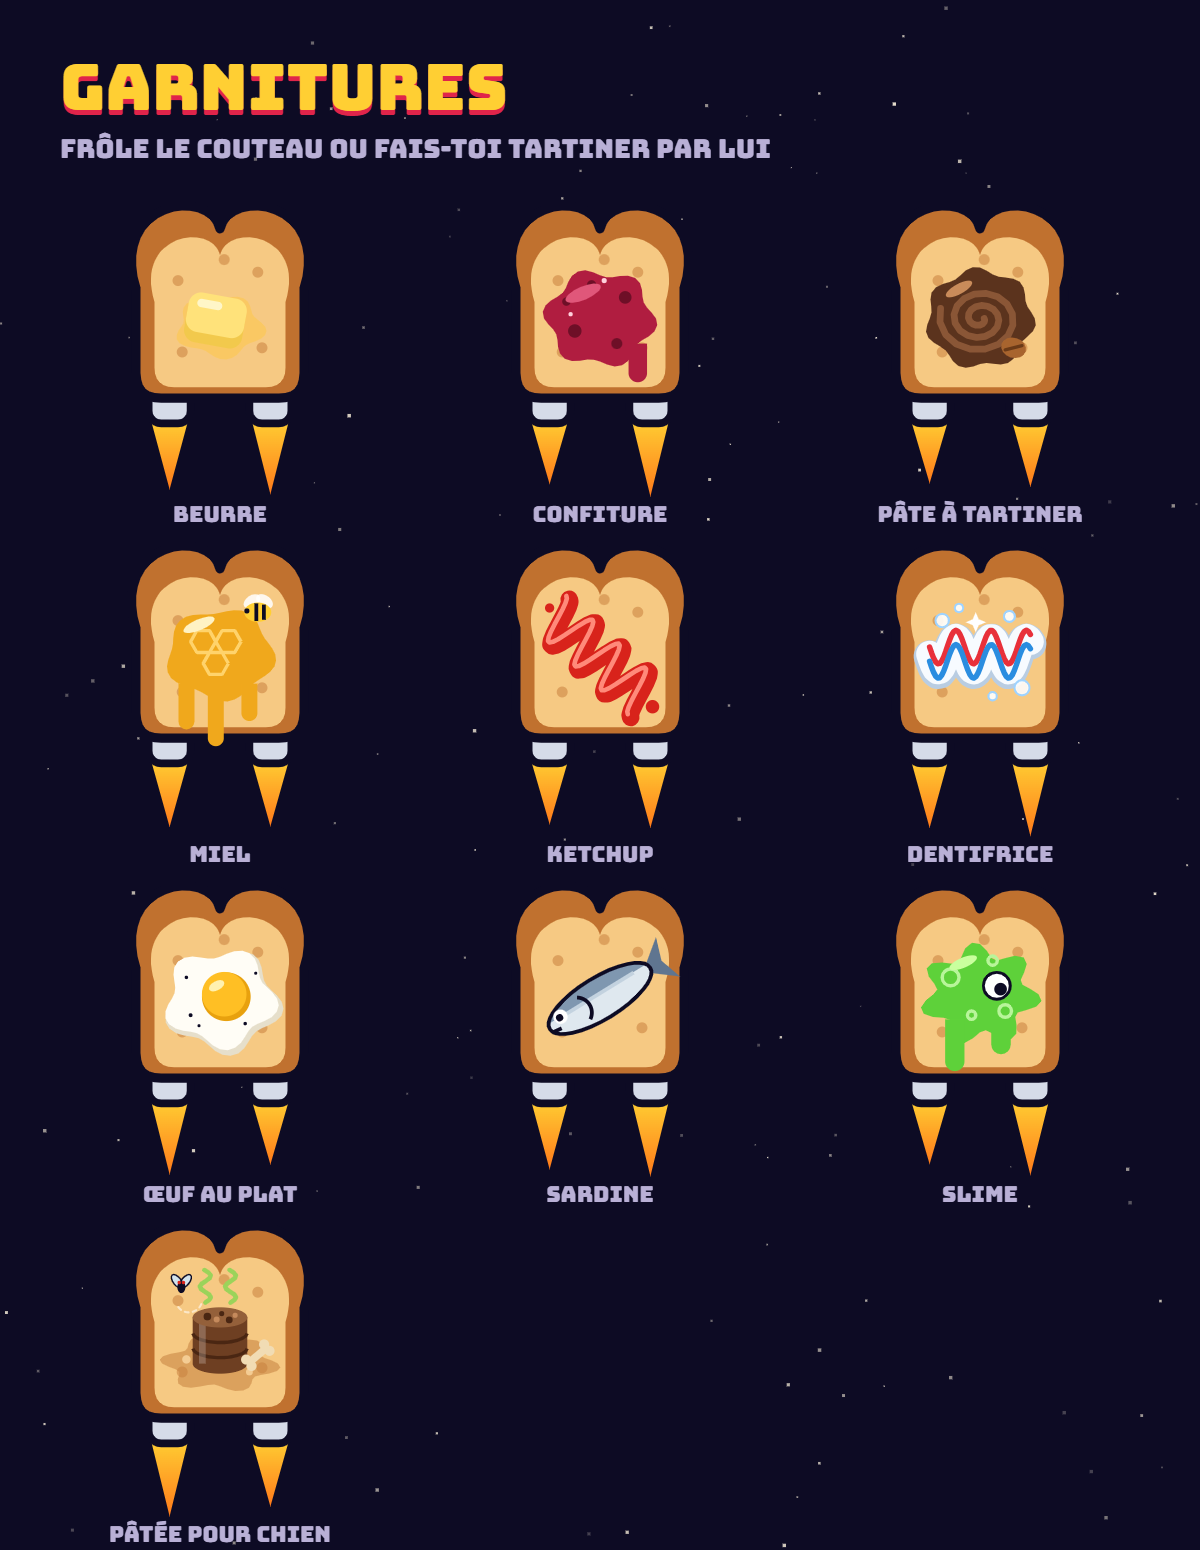
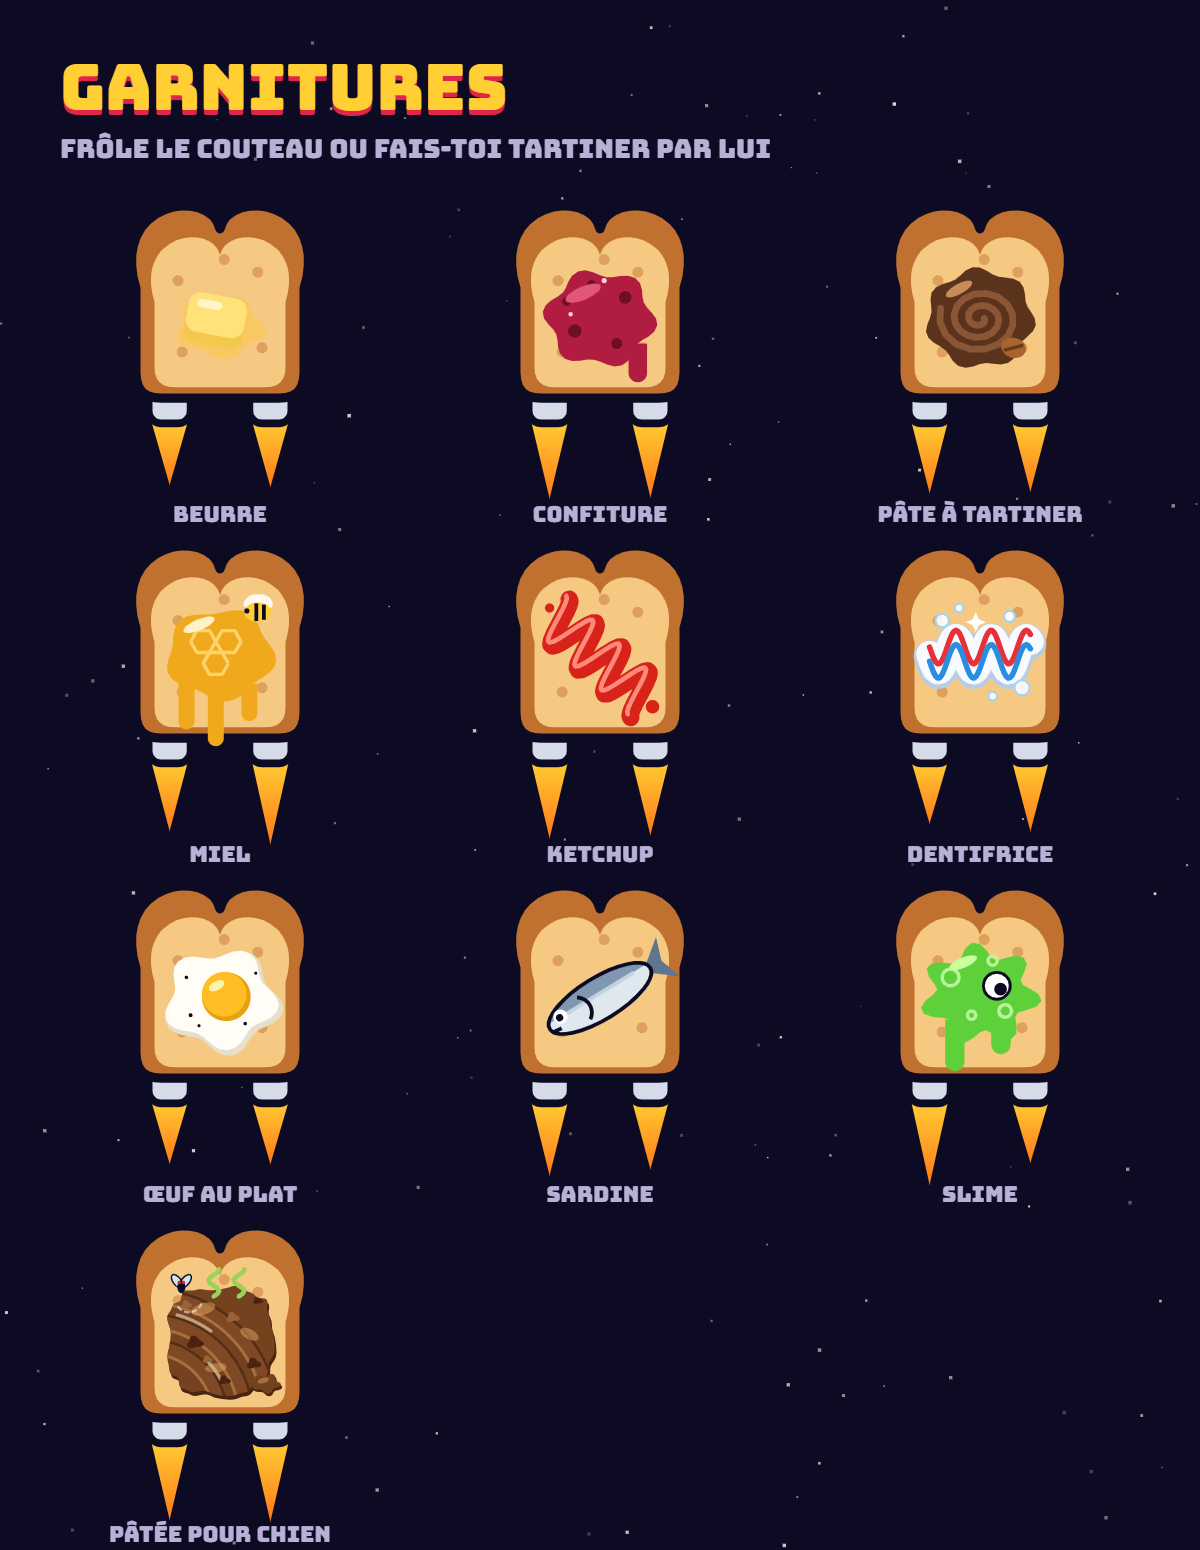
Pâtée pour chien tartinée sur la mie (coups de couteau, morceaux, gelée) au lieu d'une boîte posée, idée des accessoires notée

diff --git a/public/js/app/sprites.js b/public/js/app/sprites.js
@@ -623,44 +623,72 @@ const TOPPINGS = {
     dots(ctx, C.void, [[4.9, -0.2, 1.5]]);
   },
   dog(ctx, C) {
-    ctx.fillStyle = "rgba(196, 128, 62, 0.55)";
-    wavy(ctx, 0, 8, 12.5, 6, 0.16, 6);
-    ctx.fill();
-    dots(ctx, "rgba(255, 222, 170, 0.7)", [[-8, 7, 1], [7, 10, 0.8]]);
-    ctx.fillStyle = "#6e3f22";
-    ctx.beginPath();
-    ctx.moveTo(-6.5, -3);
-    ctx.lineTo(-6.5, 8);
-    ctx.ellipse(0, 8, 6.5, 2.4, 0, Math.PI, 0, true);
-    ctx.lineTo(6.5, -3);
+    const layer = (dx, dy) => line(ctx, Array.from({ length: 120 }, (_, i) => {
+      const a = (i / 120) * TAU, c = Math.cos(a), sn = Math.sin(a);
+      const f = 1 + 0.035 * Math.sin(a * 9 + 1.3) + 0.02 * Math.sin(a * 17 + 0.5);
+      return [dx + Math.sign(c) * Math.abs(c) ** 0.65 * 12.4 * f, dy + 2.6 + Math.sign(sn) * Math.abs(sn) ** 0.65 * 12.6 * f];
+    }));
+    ctx.fillStyle = "#4a2611";
+    layer(0.4, 0.9);
     ctx.closePath();
     ctx.fill();
-    ctx.strokeStyle = "#4a2612";
-    ctx.lineWidth = 0.8;
-    for (const y of [0.6, 4.2]) {
+    ctx.fillStyle = "#74421f";
+    layer(0, 0);
+    ctx.closePath();
+    ctx.fill();
+    ctx.save();
+    ctx.clip();
+    ctx.lineCap = "round";
+    for (const r of [17, 23, 29]) {
+      ctx.strokeStyle = "#7f4925";
+      ctx.lineWidth = 3.4;
       ctx.beginPath();
-      ctx.ellipse(0, y, 6.5, 2.4, 0, 0.1, Math.PI - 0.1);
+      ctx.arc(-17, 21, r, -1.75, 0.15);
+      ctx.stroke();
+      ctx.strokeStyle = "#a8703f";
+      ctx.lineWidth = 0.7;
+      ctx.beginPath();
+      ctx.arc(-17, 21, r - 1.6, -1.7, 0.1);
+      ctx.stroke();
+      ctx.strokeStyle = "#552d14";
+      ctx.lineWidth = 0.6;
+      ctx.beginPath();
+      ctx.arc(-17, 21, r + 1.8, -1.72, 0.12);
       ctx.stroke();
     }
-    ctx.fillStyle = "rgba(255, 255, 255, 0.22)";
-    ctx.fillRect(-5, -2.5, 1.6, 10.5);
-    ctx.fillStyle = "#94603a";
-    oval(ctx, 0, -3, 6.5, 2.4);
-    ctx.fill();
-    dots(ctx, "#4a2612", [[-3, -3.2, 0.9], [2.2, -2.4, 0.8], [0.4, -3.9, 0.6]]);
-    dots(ctx, "#c58a5c", [[-0.8, -2.5, 0.7], [3.6, -3.5, 0.6]]);
-    ctx.save();
-    ctx.translate(9, 6);
-    ctx.rotate(-0.7);
-    ctx.fillStyle = "#f1dcb4";
-    ctx.fillRect(-2.6, -0.9, 5.2, 1.8);
-    dots(ctx, "#f1dcb4", [[-2.8, -1, 1.2], [-2.8, 1, 1.2], [2.8, -1, 1.2], [2.8, 1, 1.2]]);
+    ctx.strokeStyle = "rgba(255, 236, 200, 0.55)";
+    ctx.lineWidth = 0.8;
+    ctx.beginPath();
+    ctx.arc(-17, 21, 25.5, -1.3, -0.95);
+    ctx.stroke();
+    ctx.beginPath();
+    ctx.arc(-17, 21, 19.5, -0.75, -0.45);
+    ctx.stroke();
+    ctx.fillStyle = "rgba(236, 178, 104, 0.45)";
+    for (const [x, y, rx, ry, a] of [[-4, -5, 3, 1.4, -0.3], [7, 1, 2.4, 1.2, 0.5], [-1, 9, 2.6, 1.1, -0.1]]) {
+      oval(ctx, x, y, rx, ry, a);
+      ctx.fill();
+    }
+    for (const [x, y, r, dark] of [[-6, 3, 1.5, 1], [3, -3, 1.2, 0], [8, 8, 1.3, 1], [-8, -6, 1, 0], [1, 12, 1.1, 1], [9, -7, 0.9, 1], [-3, 7, 0.9, 0]]) {
+      ctx.fillStyle = dark ? "#4a2410" : "#9a6238";
+      wavy(ctx, x, y, r * 1.2, r * 0.9, 0.22, 3);
+      ctx.fill();
+    }
     ctx.restore();
+    ctx.fillStyle = "#4a2611";
+    wavy(ctx, 11.3, 13.3, 3, 2.1, 0.18, 5);
+    ctx.fill();
+    ctx.fillStyle = "#74421f";
+    wavy(ctx, 11, 12.7, 3, 2.1, 0.18, 5);
+    ctx.fill();
+    ctx.fillStyle = "#a8703f";
+    oval(ctx, 10.3, 12, 1.4, 0.6, -0.3);
+    ctx.fill();
     ctx.strokeStyle = "#9bd35a";
     ctx.lineWidth = 1.1;
     ctx.lineCap = "round";
-    for (const x of [-3.5, 2.5]) {
-      line(ctx, Array.from({ length: 13 }, (_, i) => [x + Math.sin(i * 0.8) * 1.3, -6.5 - i * 0.65]));
+    for (const x of [-1.5, 4.5]) {
+      line(ctx, Array.from({ length: 11 }, (_, i) => [x + Math.sin(i * 0.8) * 1.3, -8 - i * 0.65]));
       ctx.stroke();
     }
     ctx.strokeStyle = "rgba(255, 255, 255, 0.55)";

diff --git a/README.md b/README.md
@@ -103,7 +103,7 @@ Jeu de soirée du collectif Tartine Sauvage. La tartine-fusée esquive les couve
 - 22 succès en 4 familles (temps, frôlés et découvertes, assiduité et soirées, secrets) : liste et conditions dans `achievements.js`.
 - Gardés sur le téléphone (`cv-succes`), sans effet sur le classement. Perdus en changeant de téléphone ou de navigateur. Sur iPhone, Safari et l'appli installée ne partagent pas leurs succès.
 - Le nombre de parties prend le plus grand entre le compteur du téléphone et celui du serveur.
-- Garnitures : 9 tartinades dessinées sur la tartine (`TOPPINGS` dans `sprites.js`) : confiture, pâte à tartiner, miel et son abeille, ketchup en zigzag, dentifrice rayé, œuf au plat, sardine entière, slime qui a un œil, pâtée pour chien et sa mouche. Beurre au départ. 1 attaque sur 40 a un couteau garni : le frôler ou se faire tuer par lui débloque sa garniture (pas en entraînement). Choix dans Succès, carte Garnitures (ombres pour celles pas encore gagnées). Gardées sur le téléphone (`cv-garnitures`, `cv-garniture`), purement visuel.
+- Garnitures : 9 tartinades dessinées sur la tartine (`TOPPINGS` dans `sprites.js`) : confiture, pâte à tartiner, miel et son abeille, ketchup en zigzag, dentifrice rayé, œuf au plat, sardine entière, slime qui a un œil, pâtée pour chien tartinée, avec son odeur et sa mouche. Beurre au départ. 1 attaque sur 40 a un couteau garni : le frôler ou se faire tuer par lui débloque sa garniture (pas en entraînement). Choix dans Succès, carte Garnitures (ombres pour celles pas encore gagnées). Gardées sur le téléphone (`cv-garnitures`, `cv-garniture`), purement visuel.
 
 ## Appli et réseau
 
@@ -193,6 +193,7 @@ Après :
 - Une phase après 80 s (« mode sérieux »), ou des moments calmes et des pics calés sur les drops du morceau.
 - Suites d'attaques calées sur la musique, ou tirées parmi des enchaînements déjà écrits qui reviennent : analyser d'abord le morceau pour caler au moins les montées et les drops.
 - Images ou objets à collectionner (le maximator qui tourne), partage du score en story Insta.
+- Accessoires sur la tartine : petit chapeau de Noël, un truc d'Halloween, deuxième paire de boosters sur les côtés comme sur l'affiche. Moyen de les débloquer à trouver.
 - Pas retenues pour l'instant : thème de soirée choisi par l'admin, tartine du designer ou redessinée (Adrien garde la tartine actuelle, pistes dans `maquettes/`), étoiles au rythme de la musique, son d'annonce par attaque, couche de tension, podium de fin de soirée sur l'écran géant.
 
 ## Bon à savoir
